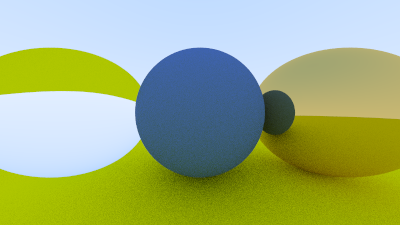
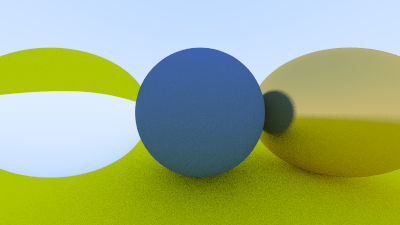
dielectric material

Changed region(s): [[0.72, 0.4356, 1.0, 0.56], [0.66, 0.4044, 0.72, 0.4356]]

diff --git a/source/main.cpp b/source/main.cpp
@@ -12,7 +12,7 @@ int main() {
     auto material_lambertian1 = make_shared<lambertian>(color(0.8, 0.8, 0.0));
     auto material_lambertian2 = make_shared<lambertian>(color(0.1, 0.2, 0.5));
     auto material_dielectric = make_shared<dielectric>(1.5);
-    auto material_metal = make_shared<metal>(color(0.8, 0.6, 0.2),0.0);
+    auto material_metal = make_shared<metal>(color(0.8, 0.6, 0.2),0.1);
     world.add(make_shared<sphere>(point3(-1,0,-1),0.5,material_dielectric));
     world.add(make_shared<sphere>(point3(1,0,-1),0.5,material_metal));
     world.add(make_shared<sphere>(point3(0,0,-1),0.5,material_lambertian2));
